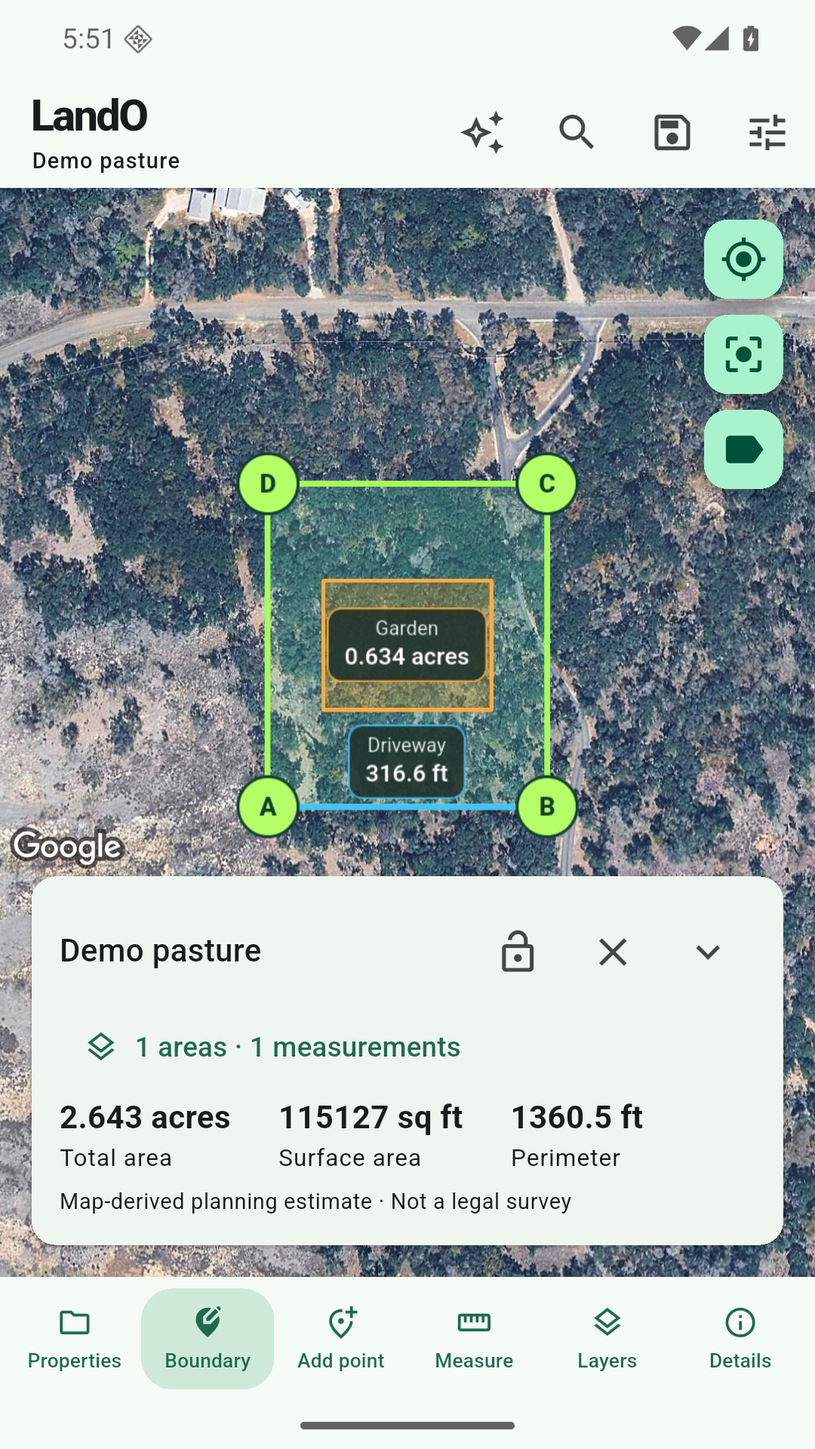
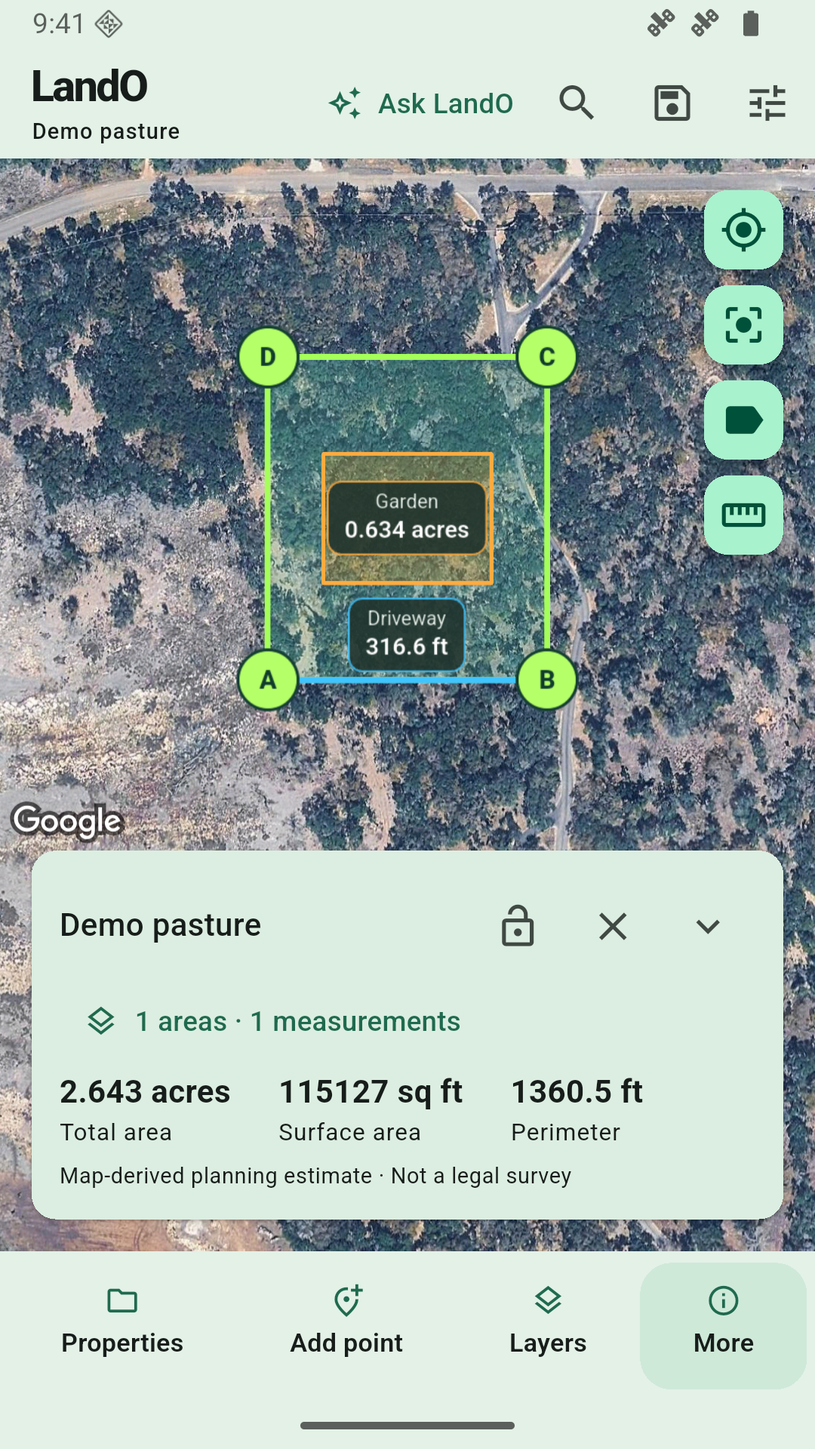
Refresh LandO galleries and support with current simulator screenshots

diff --git a/apps/lando/index.html b/apps/lando/index.html
@@ -7,7 +7,7 @@
 <link rel="canonical" href="https://frtrev.github.io/apps/lando/">
 <link rel="icon" type="image/png" href="/assets/lando/app-icon.png">
 <link rel="stylesheet" href="/assets/styles.css">
-<link rel="stylesheet" href="/assets/lando/lando.css">
+<link rel="stylesheet" href="/assets/lando/lando.css?v=20261127-screenshots">
 </head>
 <body class="lando-page">
 <header><div class="shell nav"><a class="brand" href="/">Neo<span>TheOne</span></a><nav aria-label="LandO navigation"><a aria-current="page" href="/apps/lando/">Overview</a><a href="/apps/lando/privacy/">Privacy</a><a href="/apps/lando/support/">Support</a><a href="/apps/lando/safety/">Planning limits</a></nav></div></header>
@@ -23,11 +23,29 @@
 <article class="card"><h2>Ask LandO</h2><p>With Pro demo, discuss your property and saved measurements through LandO’s managed Gemini assistant after accepting the account AI agreement. Open calculations, details and source links, and continue longer questions with Keep waiting.</p></article>
 <article class="card"><h2>Keep your work</h2><p>Sign in to an account with its own local property and conversation storage. Export a readable backup and restore it on another installation. Signing in does not synchronize your work between devices.</p></article>
 </section>
-<section class="showcase" id="screenshots" aria-labelledby="screens-title"><div class="section-heading"><div><p class="eyebrow">Inside the app</p><h2 id="screens-title">A clearer view of your plans</h2></div><p>Android screenshots from an earlier app version, using a synthetic example property. Current controls and account flows may differ.</p></div>
-<div class="screenshot-grid lando-screens">
-<figure class="screenshot-card"><a href="/assets/lando/property-map.png" aria-label="Open full-size property map screenshot"><img src="/assets/lando/property-map.png" width="1080" height="1920" loading="lazy" alt="LandO satellite map showing a sample property boundary, garden area and driveway distance label"></a><figcaption><strong>See your property in context</strong><span>Boundaries, custom areas and distance labels together on the map.</span></figcaption></figure>
-<figure class="screenshot-card"><a href="/assets/lando/saved-layers.png" aria-label="Open full-size saved layers screenshot"><img src="/assets/lando/saved-layers.png" width="1080" height="1920" loading="lazy" alt="LandO Layers panel listing saved areas and measurements with map visibility controls"></a><figcaption><strong>Keep measurements organized</strong><span>Manage independent areas and paths saved with the property.</span></figcaption></figure>
-</div><p class="gallery-note">Example geometry illustrates planning tools and does not establish ownership or a surveyed boundary. Map imagery and attribution belong to their respective providers.</p></section>
+<section class="showcase" id="screenshots" aria-labelledby="screens-title"><div class="section-heading"><div><p class="eyebrow">Inside the app</p><h2 id="screens-title">A clearer view of your plans</h2></div><p>Current iPhone, iPad and Android simulator captures, taken November 27, 2026 with a synthetic example property. Select a device and open any image at full resolution.</p></div>
+<details class="lando-platform-gallery" id="screenshots-iphone" open><summary>iPhone screenshots <span>1320 × 2868</span></summary><div class="screenshot-grid lando-screens">
+<figure class="screenshot-card "><a href="/assets/lando/screenshots/iphone/01-property-map.png" aria-label="Open full-size iPhone see your property in context screenshot"><img src="/assets/lando/screenshots/iphone/01-property-map.png" width="1320" height="2868" loading="lazy" decoding="async" alt="iPhone: Satellite map of a synthetic property with a garden area and driveway measurement"></a><figcaption><strong>See your property in context</strong><span>Boundaries, areas and distance labels with the updated light-green controls.</span></figcaption></figure>
+<figure class="screenshot-card "><a href="/assets/lando/screenshots/iphone/02-saved-layers.png" aria-label="Open full-size iPhone keep measurements organized screenshot"><img src="/assets/lando/screenshots/iphone/02-saved-layers.png" width="1320" height="2868" loading="lazy" decoding="async" alt="iPhone: LandO Areas and measurements sheet listing the Garden and Driveway layers"></a><figcaption><strong>Keep measurements organized</strong><span>Manage saved areas and distance paths with independent visibility controls.</span></figcaption></figure>
+<figure class="screenshot-card "><a href="/assets/lando/screenshots/iphone/03-ruler-measurement.png" aria-label="Open full-size iPhone measure without naming a layer screenshot"><img src="/assets/lando/screenshots/iphone/03-ruler-measurement.png" width="1320" height="2868" loading="lazy" decoding="async" alt="iPhone: Active temporary ruler measurement with two draggable endpoints and a visible length label"></a><figcaption><strong>Measure without naming a layer</strong><span>Use the ruler for a temporary path, then tap its last point to finish.</span></figcaption></figure>
+<figure class="screenshot-card "><a href="/assets/lando/screenshots/iphone/04-sign-in.png" aria-label="Open full-size iPhone sign in to your workspace screenshot"><img src="/assets/lando/screenshots/iphone/04-sign-in.png" width="1320" height="2868" loading="lazy" decoding="async" alt="iPhone: LandO sign-in screen with parcel artwork, email and password fields"></a><figcaption><strong>Sign in to your workspace</strong><span>The updated sign-in screen uses LandO’s parcel artwork and soft-green theme.</span></figcaption></figure>
+<figure class="screenshot-card "><a href="/assets/lando/screenshots/iphone/05-property-map-dark.png" aria-label="Open full-size iPhone plan in dark mode screenshot"><img src="/assets/lando/screenshots/iphone/05-property-map-dark.png" width="1320" height="2868" loading="lazy" decoding="async" alt="iPhone: LandO property map in dark mode with labeled boundaries and measurements"></a><figcaption><strong>Plan in dark mode</strong><span>The same map and measurement tools with the existing dark theme.</span></figcaption></figure>
+</div></details>
+<details class="lando-platform-gallery" id="screenshots-ipad"><summary>iPad screenshots <span>2064 × 2752</span></summary><div class="screenshot-grid lando-screens">
+<figure class="screenshot-card "><a href="/assets/lando/screenshots/ipad/01-property-map.png" aria-label="Open full-size iPad see your property in context screenshot"><img src="/assets/lando/screenshots/ipad/01-property-map.png" width="2064" height="2752" loading="lazy" decoding="async" alt="iPad: Satellite map of a synthetic property with a garden area and driveway measurement"></a><figcaption><strong>See your property in context</strong><span>Boundaries, areas and distance labels with the updated light-green controls.</span></figcaption></figure>
+<figure class="screenshot-card "><a href="/assets/lando/screenshots/ipad/02-saved-layers.png" aria-label="Open full-size iPad keep measurements organized screenshot"><img src="/assets/lando/screenshots/ipad/02-saved-layers.png" width="2064" height="2752" loading="lazy" decoding="async" alt="iPad: LandO Areas and measurements sheet listing the Garden and Driveway layers"></a><figcaption><strong>Keep measurements organized</strong><span>Manage saved areas and distance paths with independent visibility controls.</span></figcaption></figure>
+<figure class="screenshot-card "><a href="/assets/lando/screenshots/ipad/03-ruler-measurement.png" aria-label="Open full-size iPad measure without naming a layer screenshot"><img src="/assets/lando/screenshots/ipad/03-ruler-measurement.png" width="2064" height="2752" loading="lazy" decoding="async" alt="iPad: Active temporary ruler measurement with two draggable endpoints and a visible length label"></a><figcaption><strong>Measure without naming a layer</strong><span>Use the ruler for a temporary path, then tap its last point to finish.</span></figcaption></figure>
+<figure class="screenshot-card "><a href="/assets/lando/screenshots/ipad/04-sign-in.png" aria-label="Open full-size iPad sign in to your workspace screenshot"><img src="/assets/lando/screenshots/ipad/04-sign-in.png" width="2064" height="2752" loading="lazy" decoding="async" alt="iPad: LandO sign-in screen with parcel artwork, email and password fields"></a><figcaption><strong>Sign in to your workspace</strong><span>The updated sign-in screen uses LandO’s parcel artwork and soft-green theme.</span></figcaption></figure>
+<figure class="screenshot-card "><a href="/assets/lando/screenshots/ipad/05-property-map-dark.png" aria-label="Open full-size iPad plan in dark mode screenshot"><img src="/assets/lando/screenshots/ipad/05-property-map-dark.png" width="2064" height="2752" loading="lazy" decoding="async" alt="iPad: LandO property map in dark mode with labeled boundaries and measurements"></a><figcaption><strong>Plan in dark mode</strong><span>The same map and measurement tools with the existing dark theme.</span></figcaption></figure>
+</div></details>
+<details class="lando-platform-gallery" id="screenshots-android"><summary>Android screenshots <span>1080 × 1920</span></summary><div class="screenshot-grid lando-screens">
+<figure class="screenshot-card "><a href="/assets/lando/screenshots/android/01-property-map.png" aria-label="Open full-size Android see your property in context screenshot"><img src="/assets/lando/screenshots/android/01-property-map.png" width="1080" height="1920" loading="lazy" decoding="async" alt="Android: Satellite map of a synthetic property with a garden area and driveway measurement"></a><figcaption><strong>See your property in context</strong><span>Boundaries, areas and distance labels with the updated light-green controls.</span></figcaption></figure>
+<figure class="screenshot-card "><a href="/assets/lando/screenshots/android/02-saved-layers.png" aria-label="Open full-size Android keep measurements organized screenshot"><img src="/assets/lando/screenshots/android/02-saved-layers.png" width="1080" height="1920" loading="lazy" decoding="async" alt="Android: LandO Areas and measurements sheet listing the Garden and Driveway layers"></a><figcaption><strong>Keep measurements organized</strong><span>Manage saved areas and distance paths with independent visibility controls.</span></figcaption></figure>
+<figure class="screenshot-card "><a href="/assets/lando/screenshots/android/03-ruler-measurement.png" aria-label="Open full-size Android measure without naming a layer screenshot"><img src="/assets/lando/screenshots/android/03-ruler-measurement.png" width="1080" height="1920" loading="lazy" decoding="async" alt="Android: Active temporary ruler measurement with two draggable endpoints and a visible length label"></a><figcaption><strong>Measure without naming a layer</strong><span>Use the ruler for a temporary path, then tap its last point to finish.</span></figcaption></figure>
+<figure class="screenshot-card "><a href="/assets/lando/screenshots/android/04-sign-in.png" aria-label="Open full-size Android sign in to your workspace screenshot"><img src="/assets/lando/screenshots/android/04-sign-in.png" width="1080" height="1920" loading="lazy" decoding="async" alt="Android: LandO sign-in screen with parcel artwork, email and password fields"></a><figcaption><strong>Sign in to your workspace</strong><span>The updated sign-in screen uses LandO’s parcel artwork and soft-green theme.</span></figcaption></figure>
+<figure class="screenshot-card "><a href="/assets/lando/screenshots/android/05-property-map-dark.png" aria-label="Open full-size Android plan in dark mode screenshot"><img src="/assets/lando/screenshots/android/05-property-map-dark.png" width="1080" height="1920" loading="lazy" decoding="async" alt="Android: LandO property map in dark mode with labeled boundaries and measurements"></a><figcaption><strong>Plan in dark mode</strong><span>The same map and measurement tools with the existing dark theme.</span></figcaption></figure>
+</div></details>
+<p class="gallery-note">These are native app captures, not composited mockups. The example geometry does not establish ownership or a surveyed boundary. Google Maps imagery and attribution remain visible and belong to their respective providers.</p></section>
 <section class="showcase" aria-labelledby="assistant-title"><p class="eyebrow">Accounts &amp; plans</p><h2 id="assistant-title">Mapping with Free, managed AI with Pro demo</h2><p class="lede">Create an email/password account and choose a plan. Free supports one saved property without AI. Pro demo supports unlimited properties and the managed LandO assistant.</p><ul><li>Free and Pro demo are selectable demo plans. This build has no purchases, billing or verified paid subscriptions. Change plans in Settings → Account &amp; plan.</li><li>The Pro assistant uses LandO’s authenticated backend and Google Gemini. No personal API key or model download is needed. Questions can share recent conversation and property context, including precise coordinates.</li><li>Read and accept the account AI agreement before sending your first request. Decline to continue mapping, or review and withdraw permission in Settings → AI agreement.</li><li>Sign-in, maps, address search and managed AI require connectivity. Properties and chats stay in account-specific local storage, with backups for moving them between installations.</li><li>Dismiss map hints individually, or check Show hints in Settings to see them again.</li></ul></section>
 <div class="notice"><strong>For planning, with professional judgment.</strong> Map-derived boundaries and measurements are estimates. AI answers and online prices may be wrong or outdated. Confirm surveys, ownership, permits, engineering decisions and contractor costs with qualified professionals.</div>
 <section class="grid" aria-label="LandO documents"><article class="card"><h2>Privacy and your data</h2><p>Understand local storage, optional AI sharing, maps, research and backups.</p><ul class="doc-list"><li><a href="/apps/lando/privacy/">Read the privacy policy →</a></li><li><a href="/apps/lando/support/#delete-data">Manage or delete your data →</a></li></ul></article><article class="card"><h2>Help with LandO</h2><p>Get started, move your data to a new phone or report a problem.</p><ul class="doc-list"><li><a href="/apps/lando/support/">Support and common questions →</a></li><li><a href="/apps/lando/safety/">Measurement and AI limitations →</a></li></ul></article></section>

diff --git a/apps/lando/support/index.html b/apps/lando/support/index.html
@@ -7,7 +7,7 @@
 <link rel="canonical" href="https://frtrev.github.io/apps/lando/support/">
 <link rel="icon" type="image/png" href="/assets/lando/app-icon.png">
 <link rel="stylesheet" href="/assets/styles.css">
-<link rel="stylesheet" href="/assets/lando/lando.css">
+<link rel="stylesheet" href="/assets/lando/lando.css?v=20261127-screenshots">
 </head>
 <body class="lando-page">
 <header><div class="shell nav"><a class="brand" href="/">Neo<span>TheOne</span></a><nav aria-label="LandO navigation"><a href="/apps/lando/">Overview</a><a href="/apps/lando/privacy/">Privacy</a><a aria-current="page" href="/apps/lando/support/">Support</a><a href="/apps/lando/safety/">Planning limits</a></nav></div></header>
@@ -15,14 +15,17 @@
 <p class="eyebrow">LandO help</p><h1>Support</h1><p>For questions, technical issues, feedback or privacy requests, email <a href="mailto:ftrevino@yahoo.com?subject=LandO%20Support">ftrevino@yahoo.com</a>. LandO is published by Francisco Trevino under NeoTheOne.</p>
 <h2>Get started and sign in</h2>
 <p>LandO supports Android, iPhone and iPad. The current app requires an email/password account. Register or sign in, then choose Free or Pro demo. Use <strong>Forgot password?</strong> on the sign-in screen to request a reset email. If you previously signed in on an older iOS build, the updated app may ask you to sign in once again.</p>
+<figure class="screenshot-card lando-help-shot"><a href="/assets/lando/screenshots/iphone/04-sign-in.png" aria-label="Open full-size iPhone sign in to your workspace screenshot"><img src="/assets/lando/screenshots/iphone/04-sign-in.png" width="1320" height="2868" loading="lazy" decoding="async" alt="iPhone: LandO sign-in screen with parcel artwork, email and password fields"></a><figcaption><strong>Sign in to your workspace</strong><span>The updated sign-in screen uses LandO’s parcel artwork and soft-green theme.</span></figcaption></figure>
 <h2>Free and Pro demo</h2>
 <p>Free supports one saved property and does not include AI. Pro demo supports unlimited properties and the managed assistant. Both are selectable demo plans in this build: there are no purchases, billing or verified paid subscriptions. Change your selection in <strong>Settings → Account &amp; plan</strong>. Switching to Free preserves existing properties but restricts additional property creation and assistant access. A Free account cannot import a backup containing more than one property.</p>
 <h2>Map controls and adding points</h2>
 <p>Search for an address or move the map manually. Location permission is optional; the location button centers on your position when permission is granted. The <strong>Saved map view</strong> button restores the position, zoom, rotation and tilt recorded when you explicitly saved the property.</p>
 <p>To insert a boundary point, unlock boundary editing and choose <strong>Add point</strong>. After the hint, tap between the two points where you want the new point. LandO inserts it at the tapped location between the nearest pair and ends the flow. Tap Add point again before placing it to cancel. When editing an area or distance layer, Add point inserts into that layer. Use the Details/More/Hide control to show or hide property information; Layers manages saved areas and distance measurements.</p>
+<div class="screenshot-grid lando-help-screens"><figure class="screenshot-card "><a href="/assets/lando/screenshots/iphone/01-property-map.png" aria-label="Open full-size iPhone see your property in context screenshot"><img src="/assets/lando/screenshots/iphone/01-property-map.png" width="1320" height="2868" loading="lazy" decoding="async" alt="iPhone: Satellite map of a synthetic property with a garden area and driveway measurement"></a><figcaption><strong>See your property in context</strong><span>Boundaries, areas and distance labels with the updated light-green controls.</span></figcaption></figure><figure class="screenshot-card "><a href="/assets/lando/screenshots/iphone/02-saved-layers.png" aria-label="Open full-size iPhone keep measurements organized screenshot"><img src="/assets/lando/screenshots/iphone/02-saved-layers.png" width="1320" height="2868" loading="lazy" decoding="async" alt="iPhone: LandO Areas and measurements sheet listing the Garden and Driveway layers"></a><figcaption><strong>Keep measurements organized</strong><span>Manage saved areas and distance paths with independent visibility controls.</span></figcaption></figure></div>
 <h2>Use the ruler for a temporary measurement</h2>
 <ol><li>Tap the ruler below the map-view and label buttons, then acknowledge the hint.</li><li>Tap locations to draw a path. The length label updates as you add or move points.</li><li>With at least two points placed, tap the last point to finish. LandO saves the temporary measurement locally for that property and hides its point handles.</li><li>Tap the line or length label to show its points and edit again. Drag individual points to adjust them; tap the last point to finish and save the changes.</li><li>Tap the ruler again to clear the temporary measurement. There is only one temporary measurement per property. The ruler changes color while measuring or editing is active.</li></ol>
 <p>A temporary measurement does not require a name or an entry in the saved Layers list. To see a hidden length label, turn map labels back on, or tap the line itself to reopen editing.</p>
+<figure class="screenshot-card lando-help-shot"><a href="/assets/lando/screenshots/iphone/03-ruler-measurement.png" aria-label="Open full-size iPhone measure without naming a layer screenshot"><img src="/assets/lando/screenshots/iphone/03-ruler-measurement.png" width="1320" height="2868" loading="lazy" decoding="async" alt="iPhone: Active temporary ruler measurement with two draggable endpoints and a visible length label"></a><figcaption><strong>Measure without naming a layer</strong><span>Use the ruler for a temporary path, then tap its last point to finish.</span></figcaption></figure>
 <h2>Show hints again</h2>
 <p>Each hint has its own <strong>Do not show this again</strong> option. In <strong>Settings → Map &amp; preferences</strong>, check <strong>Show hints</strong> to re-enable dismissed hints. You can then dismiss each hint individually again. Unchecking Show hints disables the map hints.</p>
 <h2>Use the managed assistant</h2>
@@ -45,6 +48,7 @@
 <h2>What to include when contacting support</h2>
 <ul><li>The LandO version/build, Android or iOS version, and device model.</li><li>The action you took, what you expected and what happened.</li><li>Relevant error text or a screenshot with private details removed.</li></ul>
 <div class="notice"><strong>Keep private information private.</strong> Do not send API keys, passwords, authentication codes or signing files. Remove private addresses and coordinates from screenshots unless needed and you choose to share them. Send a property backup only when requested and after reviewing its contents.</div>
+<h2>More screenshots</h2><p>See the complete <a href="/apps/lando/#screenshots">iPhone, iPad and Android screenshot gallery</a>, including the dark-mode map. All examples use synthetic property data.</p>
 <h2>Important limits</h2><p>LandO does not establish legal boundaries, ownership, permits or a professional appraisal. <a href="/apps/lando/safety/">Read the planning and AI limitations</a> before relying on measurements or advice.</p>
 </article></main>
 <footer><div class="shell"><span>© 2026 Francisco Trevino · NeoTheOne</span><a href="/">All products</a><a href="/copyright/">Copyright</a><a href="mailto:ftrevino@yahoo.com">ftrevino@yahoo.com</a></div></footer>

diff --git a/assets/lando/lando.css b/assets/lando/lando.css
@@ -4,12 +4,23 @@
 .lando-hero { display: grid; grid-template-columns: minmax(0, 1fr) 240px; align-items: center; gap: 48px; }
 .lando-icon { width: 100%; height: auto; border-radius: 30px; box-shadow: var(--shadow); }
 .lando-tagline { color: #c2f4d7; font-size: clamp(1.4rem, 4vw, 2rem); line-height: 1.3; margin: 18px 0 0; }
-.lando-screens { grid-template-columns: repeat(2, minmax(0, 1fr)); max-width: 800px; }
-.lando-screens .screenshot-card a { aspect-ratio: 1080 / 1920; }
-.lando-screens .screenshot-card img { object-fit: contain; }
+.lando-screens { grid-template-columns: repeat(3, minmax(0, 1fr)); }
+.lando-screens .screenshot-card a, .lando-help-screens .screenshot-card a, .lando-help-shot a { aspect-ratio: auto; }
+.lando-screens .screenshot-card img, .lando-help-screens .screenshot-card img, .lando-help-shot img { height: auto; object-fit: contain; }
 .lando-page :target { scroll-margin-top: 145px; }
 @media (max-width: 720px) {
   .lando-hero { grid-template-columns: 1fr; gap: 28px; }
   .lando-icon { width: 132px; grid-row: 1; border-radius: 20px; }
   .lando-screens { grid-template-columns: 1fr; }
+}
+
+.lando-platform-gallery { margin: 24px 0; border-top: 1px solid var(--line); }
+.lando-platform-gallery summary { cursor: pointer; padding: 20px 0 4px; color: white; font-size: 1.2rem; font-weight: 700; }
+.lando-platform-gallery summary span { color: var(--muted); font-size: .85rem; font-weight: 400; margin-left: 12px; }
+.lando-platform-gallery summary:focus-visible { outline: 2px solid #9de8bf; outline-offset: 6px; }
+.lando-help-screens { grid-template-columns: repeat(2, minmax(0, 1fr)); margin-bottom: 32px; }
+.lando-help-shot { max-width: 320px; margin: 28px auto 36px; }
+@media (max-width: 720px) {
+  .lando-help-screens { grid-template-columns: 1fr; }
+  .lando-platform-gallery summary span { display: block; margin: 6px 0 0 20px; }
 }

diff --git a/apps/lando/privacy/index.html b/apps/lando/privacy/index.html
@@ -7,7 +7,7 @@
 <link rel="canonical" href="https://frtrev.github.io/apps/lando/privacy/">
 <link rel="icon" type="image/png" href="/assets/lando/app-icon.png">
 <link rel="stylesheet" href="/assets/styles.css">
-<link rel="stylesheet" href="/assets/lando/lando.css">
+<link rel="stylesheet" href="/assets/lando/lando.css?v=20261127-screenshots">
 </head>
 <body class="lando-page">
 <header><div class="shell nav"><a class="brand" href="/">Neo<span>TheOne</span></a><nav aria-label="LandO navigation"><a href="/apps/lando/">Overview</a><a aria-current="page" href="/apps/lando/privacy/">Privacy</a><a href="/apps/lando/support/">Support</a><a href="/apps/lando/safety/">Planning limits</a></nav></div></header>

diff --git a/apps/lando/safety/index.html b/apps/lando/safety/index.html
@@ -7,7 +7,7 @@
 <link rel="canonical" href="https://frtrev.github.io/apps/lando/safety/">
 <link rel="icon" type="image/png" href="/assets/lando/app-icon.png">
 <link rel="stylesheet" href="/assets/styles.css">
-<link rel="stylesheet" href="/assets/lando/lando.css">
+<link rel="stylesheet" href="/assets/lando/lando.css?v=20261127-screenshots">
 </head>
 <body class="lando-page">
 <header><div class="shell nav"><a class="brand" href="/">Neo<span>TheOne</span></a><nav aria-label="LandO navigation"><a href="/apps/lando/">Overview</a><a href="/apps/lando/privacy/">Privacy</a><a href="/apps/lando/support/">Support</a><a aria-current="page" href="/apps/lando/safety/">Planning limits</a></nav></div></header>

diff --git a/README.md b/README.md
@@ -41,7 +41,14 @@ The public policy is synchronized with the bundled app policy effective
 November 26, 2026. Legacy-provider policy links are retained for older versions.
 Account-deletion requests use the support email at
 `/apps/lando/support/#delete-account`; signing out does not delete an account.
-Screenshots are explicitly labeled as an earlier app version.
+The gallery now contains 15 native simulator/emulator captures taken November
+27, 2026: five each for iPhone (1320 × 2868), iPad (2064 × 2752) and Android
+(1080 × 1920). They show the light map, saved layers, temporary ruler, updated
+sign-in and dark map. Originals are in `assets/lando/screenshots/`, grouped by
+device. The support page includes visual examples beside the relevant help.
+Images use synthetic property data, retain map attribution, and open at full
+resolution. The earlier `/assets/lando/property-map.png` and
+`/assets/lando/saved-layers.png` URLs now serve the refreshed Android captures.
 
 The policy describes the current FormSubmit reporting integration.
 The owner approved a Google Form replacement, but its responder URL is still
